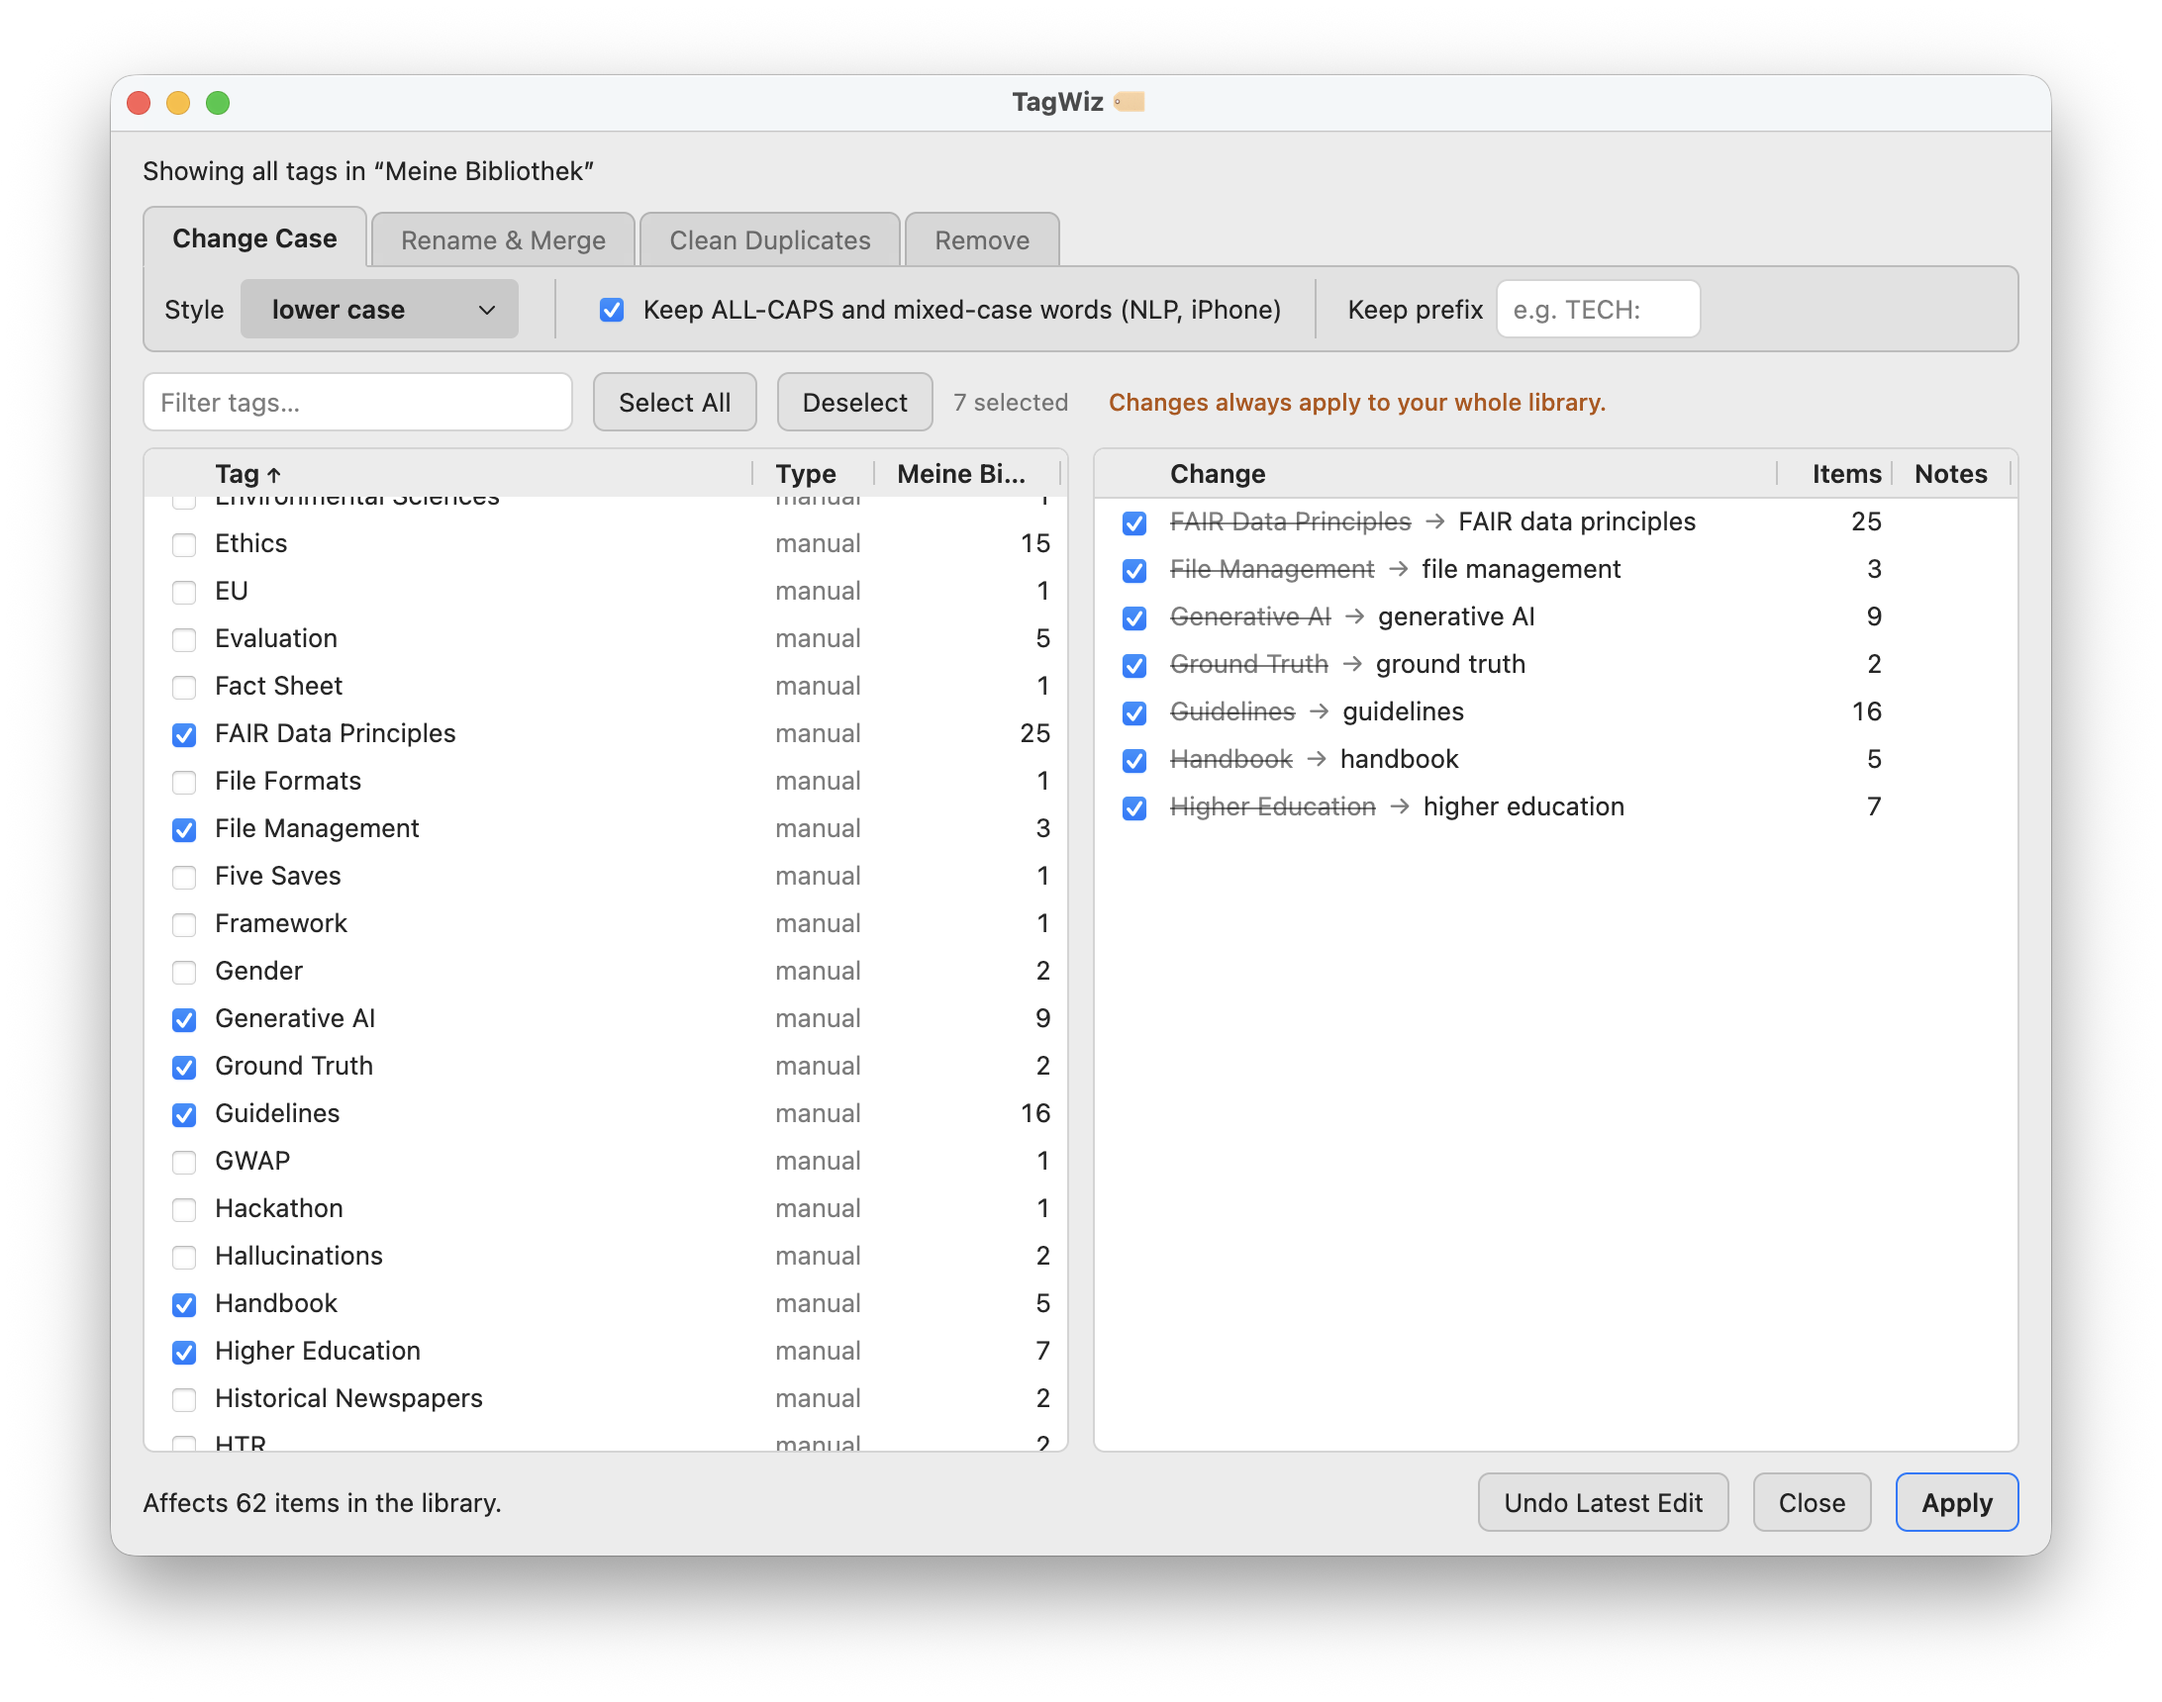
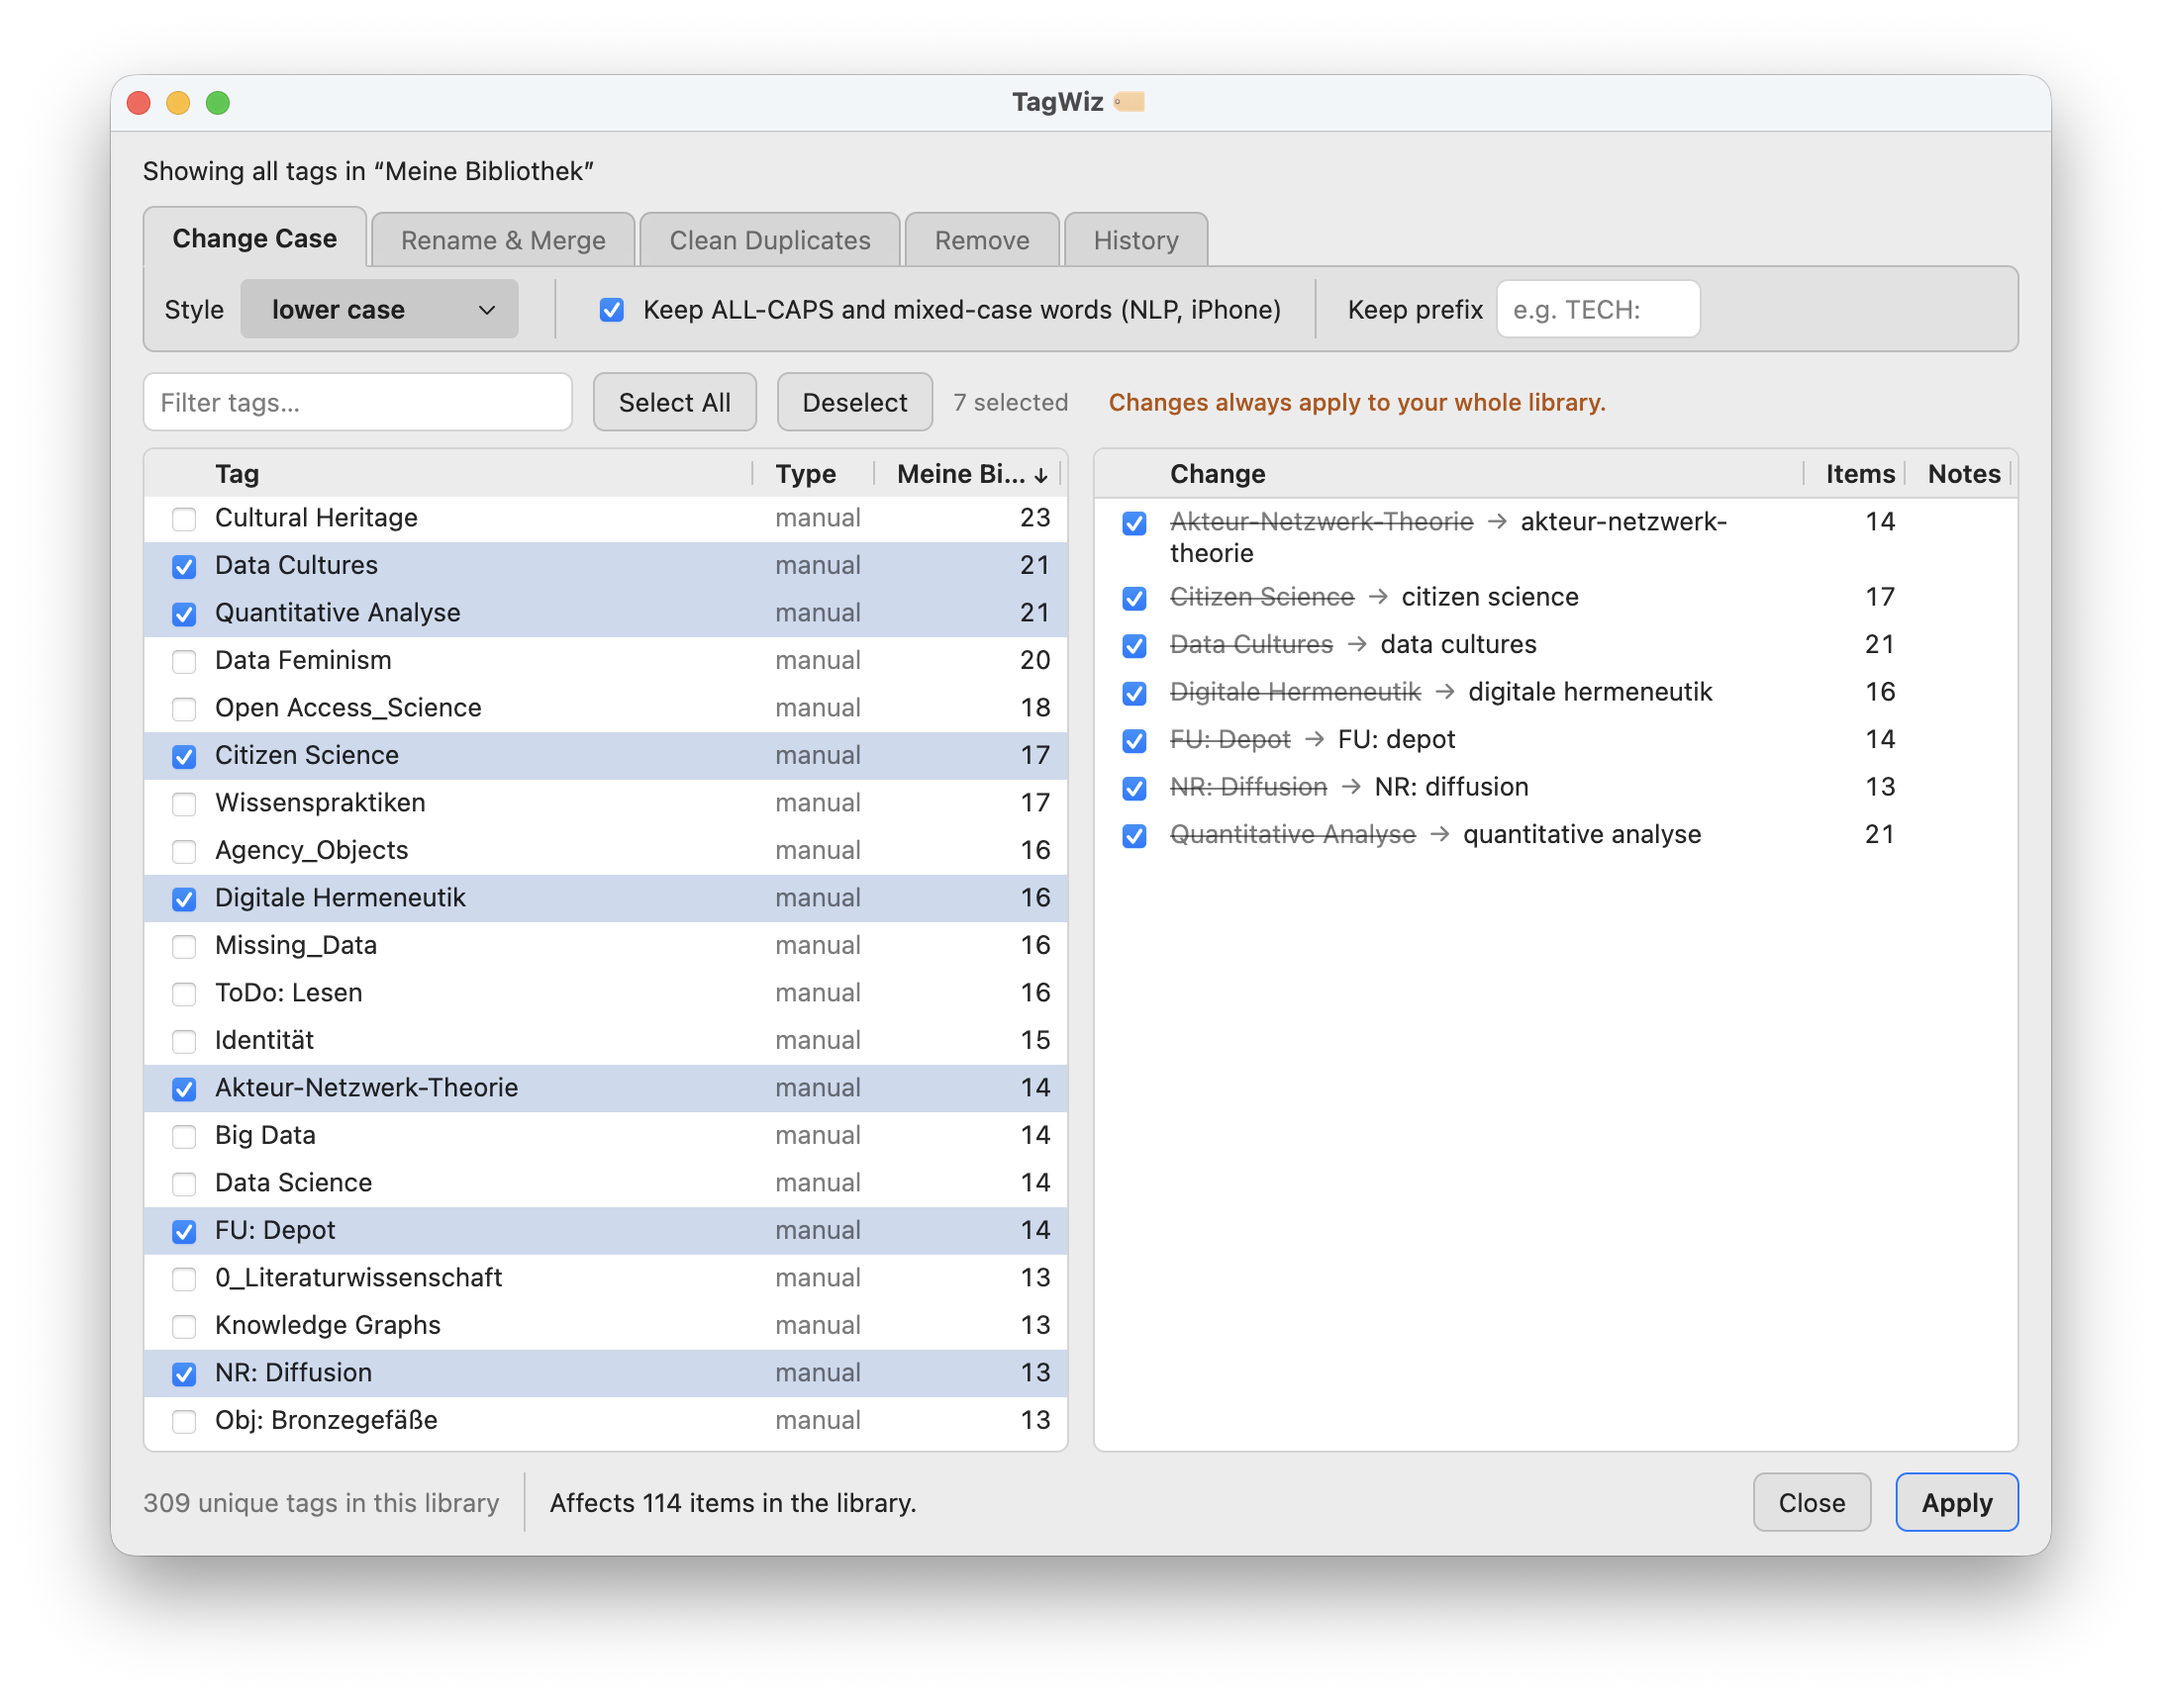
Update README

diff --git a/README.md b/README.md
@@ -14,7 +14,8 @@ In other words: its a plugin for cleaning up tags in bulk: change their case, re
   - [Rename & Merge](#rename--merge)
   - [Remove](#remove)
   - [Duplicates](#duplicates)
-  - [Undo & History](#undo--history)
+  - [History](#history)
+    - [Undo/Redo](#undoredo)
 - [Compatibility](#compatibility)
 - [Development](#development)
 - [License](#license)
@@ -27,12 +28,12 @@ In other words: its a plugin for cleaning up tags in bulk: change their case, re
 
 ## Usage
 
-Open TagWiz from the **Tools** menu, or right-click a collection and choose **TagWiz 🏷**. The window lists the tags used in the selected collection (including on its items' notes, attachments and annotations), or all tags if a library is selected. Tick **Include subcollections** to count items in subcollections too.
+Open TagWiz from the **Tools** menu, or right-click a collection and choose **TagWiz 🏷**.
+
+The window lists the tags used in the selected collection (including on its items' notes, attachments and annotations), or all tags if a library is selected. Tick **Include subcollections** to count items in subcollections too.
 
 > [!important]
-> **Every change applies to the whole library**, including items outside the currently selected collection (as well as items in the trash). The preview says how many items are affected (items that only carry a merge target are not counted: they don't change) and how many of them are outside the collection.
-
-Pick a tab, select tags (the filter box helps with long lists), check the preview, untick anything you do not want, and press **Apply**. The bottom of the window shows how many unique tags the library or collection has; a tag used both manually and automatically counts once. To empty a text field at once, click the **×** at its right end.
+> **Every change applies to the whole library**, including items outside the currently selected collection (as well as items in the trash). The preview says how many items are affected and how many of them are outside the collection.
 
 ### Change Case
 
@@ -51,7 +52,7 @@ Select one tag to rename it, or two or more to merge them, then type or pick the
 
 ### Remove
 
-Select tags and apply to delete them from every item. Tags that have a color lose it, and the preview says so. Tags selected on another tab are not carried over to this one, and the confirmation lists the tags it removes.
+Select tags and apply to delete them from every item.
 
 ### Duplicates
 
@@ -61,24 +62,27 @@ Choose how strict the match is:
 - **Ignoring case**: `Machine Learning` and `machine learning`.
 - **Ignoring case, accents, spaces, "-" and "\_"**: also treats `machine-learning`, `machine_learning` and `machineLearning` as the same, and `café` as `cafe`. Only accents on Latin and Greek letters are ignored; in other scripts such marks tell letters apart (Japanese `が` and `か` stay different).
 
-Each group suggests a spelling to keep (the most used one); pick another one with the radio buttons, or untick the group to skip it. If the name you keep is used both as a manual and an automatic tag, the merged tags become manual. Below the groups, **Possible typos and plurals** lists near-matches, which are never merged automatically. **Merge…** sends a pair to the Rename & Merge tab so you can decide.
+Each group suggests a spelling to keep (the most used one); pick another one with the radio buttons, or untick the group to skip it. If the name you keep is used both as a manual and an automatic tag, the merged tags become manual.
 
-### Undo & History
+Below the groups, **Possible typos and plurals** lists near-matches, which are never merged automatically. **Merge** sends a pair to the Rename & Merge tab so you can decide.
+
+### History
 
 Before the first change of every run, TagWiz saves a snapshot of the affected tags in a `tagwiz` folder inside your Zotero data directory. A snapshot holds which items carry the tags, their manual or automatic type and their colors. TagWiz keeps the snapshots of the last 10 runs of each library.
 
-The **History** tab lists every kept run of the library, newest first, with its date (`YYYY-MM-DD`), time (`HH:MM:SS`), type of edit (Change case, Rename, Merge, Clean duplicates or Remove) and the number of items whose tags it changed. Runs made before TagWiz recorded the type of edit show a case change as Rename.
+The **History** tab lists every kept run of the library, newest first, with its date (`YYYY-MM-DD`), time (`HH:MM:SS`), type of edit (Change case, Rename, Merge, Clean duplicates or Remove) and the number of items whose tags it changed.
 
-It works like undo and redo in a text editor. Select a run (it turns blue) and press **Apply**:
+#### Undo/Redo
 
-- On a run that is applied, Apply **undoes** it: the tags return to how they were just before it. Every later run is undone too, newest first, so undoing an older run rolls the library back to that point.
-- On a run that is undone, Apply **redoes** it. Older undone runs are redone first, oldest first.
+It works like undo and redo in a text editor. Select an edit you have made and press **Apply**:
 
-Undone runs stay at the top of the list, dimmed. The pane on the right says what Apply will do, e.g. "Undoing 4 edits." **A new edit discards the undone runs**: they are deleted and can no longer be redone. A run that was interrupted (for example by a crash) can be undone but not redone.
+- On an edit that was already done, Apply **undoes** it: the tags return to how they were just before it. Every later run is undone too, newest first, so undoing an older run rolls the library back to that point.
+- On an edit that you have undone, Apply **redoes** it. Older undone runs are redone first, oldest first.
 
-If a run's tags were changed in the meantime (for example by a sync), TagWiz lists them and asks before overwriting them; the overwritten changes cannot be brought back. It asks for each run separately; saying no stops there, and the runs undone or redone so far stay that way.
+Undone runs stay at the top of the list, dimmed. The pane on the right says what Apply will do, e.g. "Undoing 4 edits." 
 
-Manual and automatic tags keep their type, and tag colors move with the tag. Changes sync like any other edit, so wait for a running sync to finish before editing tags, and keep a backup of your Zotero data before the first big run.
+> [!note]
+> **A new edit discards all undone runs**: they are deleted and can no longer be redone.
 
 ## Compatibility
 
